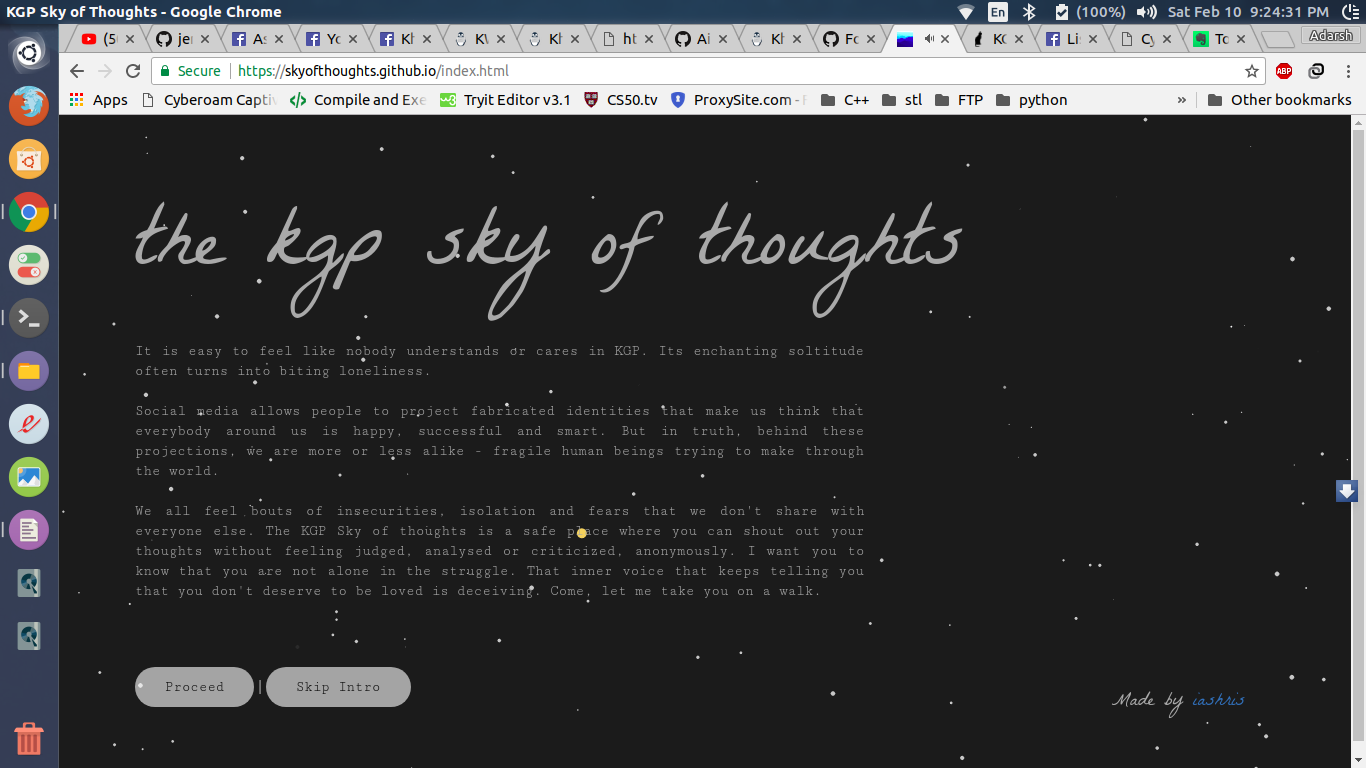
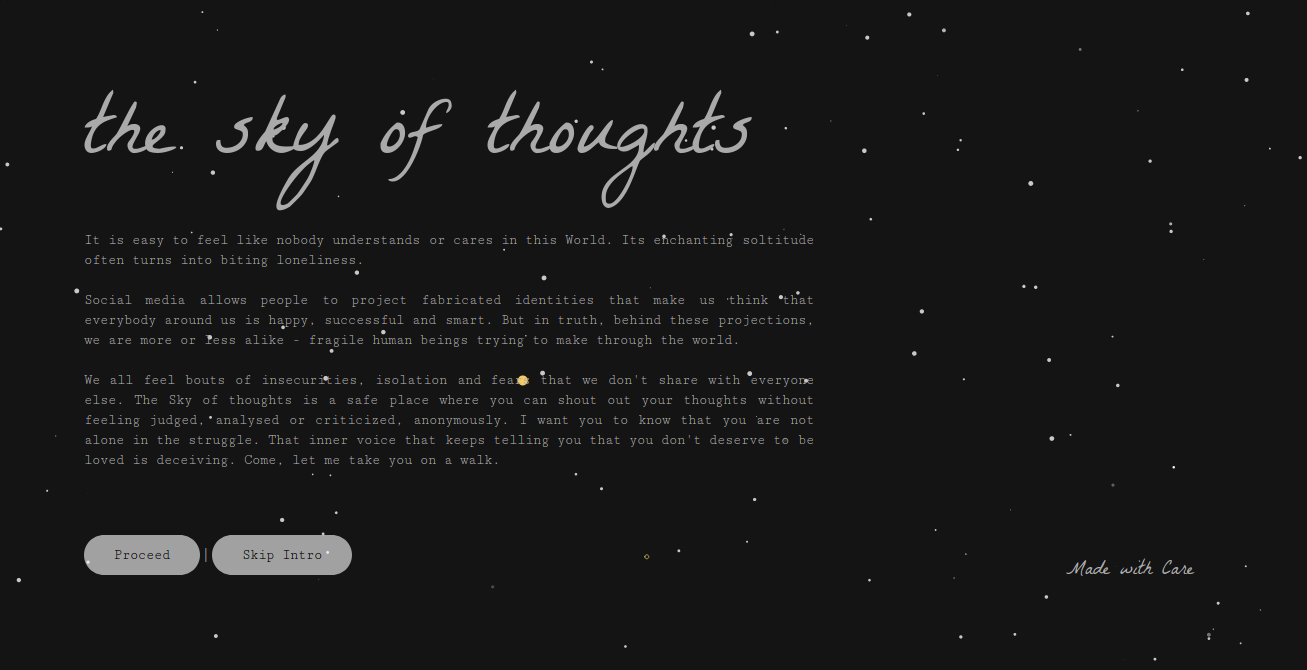
update 2

Changed region(s): [[0.0, 0.0, 1.0, 1.0], [0.7957, 0.8955, 0.9181, 0.9254], [0.8263, 0.8358, 0.9181, 0.8657]]

diff --git a/index.html b/index.html
@@ -1,7 +1,7 @@
 <!DOCTYPE html>
 <html>
 <head>
-	<title>KGP Sky of Thoughts</title>
+	<title>Sky of Thoughts</title>
 	<meta name="viewport" content="width=device-width, initial-scale=1.0" />
 	<meta property="og:url"                content="https://skyofthoughts.github.io" />
 <meta property="og:type"               content="website" />
@@ -34,11 +34,11 @@
 
 <div id="content" class="container">
 <div id="innercontent">
-<h1 class="heading col-md-12 col-sm-12 row">the kgp sky of thoughts</h1>
-<p class="subtext col-md-8 col-xs-12 row">It is easy to feel like nobody understands or cares in KGP. Its enchanting soltitude often turns into biting loneliness. <br><br>Social media allows people to project fabricated identities that make us think that everybody around us is happy, successful and smart. But in truth, behind these projections, we are more or less alike - fragile human beings trying to make through the world. <br><br> We all feel bouts of insecurities, isolation and fears that we don't share with everyone else. The KGP Sky of thoughts is a safe place where you can shout out your thoughts without feeling judged, analysed or criticized, anonymously. I want you to know that you are not alone in the struggle. That inner voice that keeps telling you that you don't deserve to be loved is deceiving. Come, let me take you on a walk.</p>
+<h1 class="heading col-md-12 col-sm-12 row">the sky of thoughts</h1>
+<p class="subtext col-md-8 col-xs-12 row">It is easy to feel like nobody understands or cares in this World. Its enchanting soltitude often turns into biting loneliness. <br><br>Social media allows people to project fabricated identities that make us think that everybody around us is happy, successful and smart. But in truth, behind these projections, we are more or less alike - fragile human beings trying to make through the world. <br><br> We all feel bouts of insecurities, isolation and fears that we don't share with everyone else. The Sky of thoughts is a safe place where you can shout out your thoughts without feeling judged, analysed or criticized, anonymously. I want you to know that you are not alone in the struggle. That inner voice that keeps telling you that you don't deserve to be loved is deceiving. Come, let me take you on a walk.</p>
 <div class="col-md-12 row neeche">
 <span class="button buttona">Proceed</span> | <a class="button" href="thoughts.html">Skip Intro</a>
-<span class="footer">Made by <a href="http://iashris.com">iashris</a></span>
+<span class="footer">Made with Care</a></span>
 </div>
 </div>
 </div>

diff --git a/resources.html b/resources.html
@@ -7,7 +7,7 @@
 <meta property="og:title"              content="KGP Sky of Thoughts" />
 <meta property="og:description"        content="You aren't all alone in the struggle. Let's talk about anxieties and depression." />
 <meta property="og:image"              content="https://skyofthoughts.github.io/img.JPG" />
-	<title>KGP Sky of Thoughts</title>
+	<title>Sky of Thoughts</title>
 </head>
 <link rel="stylesheet" type="text/css" href="main.css">
 <link href="https://fonts.googleapis.com/css?family=Cutive+Mono|La+Belle+Aurore" rel="stylesheet">
@@ -38,7 +38,10 @@
 <h3>Helpline Numbers</h3>
 <ol>
 <li><a href="http://www.aasra.info/">AASRA</a> : 91-22-27546669</li>
+<li><a href="http://1life.org.in/">OneLife</a> : 91-78930 78930</li>
 <li><a href="http://indianexpress.com/article/trending/this-is-serious/list-of-suicide-helplines-in-india/">Regional Helpline numbers</a></li>
+<li><a href="https://www.thebetterindia.com/94553/suicide-helplines-india/">Sucide Helpline in India</a></li>
+
 </ol>
 <h3>Online Counselling Portals</h3>
 <ol>

diff --git a/encouragement.html b/encouragement.html
@@ -1,7 +1,7 @@
 <!DOCTYPE html>
 <html>
 <head>
-	<title>KGP Sky of Thoughts</title>
+	<title>Sky of Thoughts</title>
 	<meta name="viewport" content="width=device-width, initial-scale=1.0" />
 	<meta property="og:url"                content="https://skyofthoughts.github.io" />
 <meta property="og:type"               content="website" />

diff --git a/thoughts.html b/thoughts.html
@@ -1,7 +1,7 @@
 <!DOCTYPE html>
 <html>
 <head>
-	<title>KGP Sky of Thoughts</title>
+	<title>Sky of Thoughts</title>
 	<meta name="viewport" content="width=device-width, initial-scale=1.0" />
 	<meta property="og:url"                content="https://skyofthoughts.github.io" />
 <meta property="og:type"               content="website" />

diff --git a/people.html b/people.html
@@ -1,7 +1,7 @@
 <!DOCTYPE html>
 <html>
 <head>
-	<title>KGP Sky of Thoughts</title>
+	<title>Sky of Thoughts</title>
 </head>
 <link rel="stylesheet" type="text/css" href="main.css">
 <link href="https://fonts.googleapis.com/css?family=Cutive+Mono|La+Belle+Aurore" rel="stylesheet">
